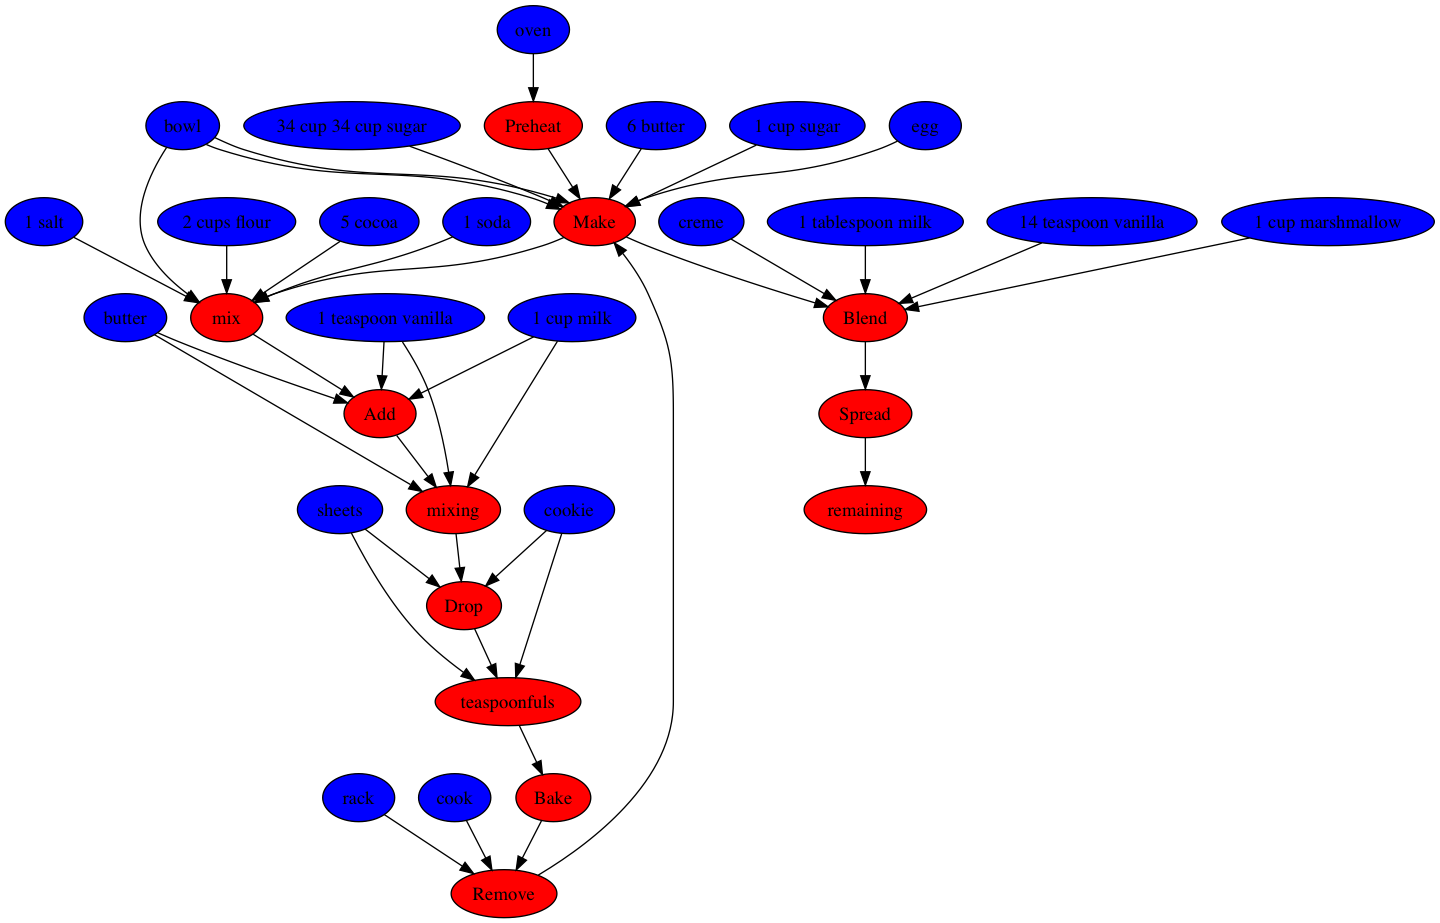
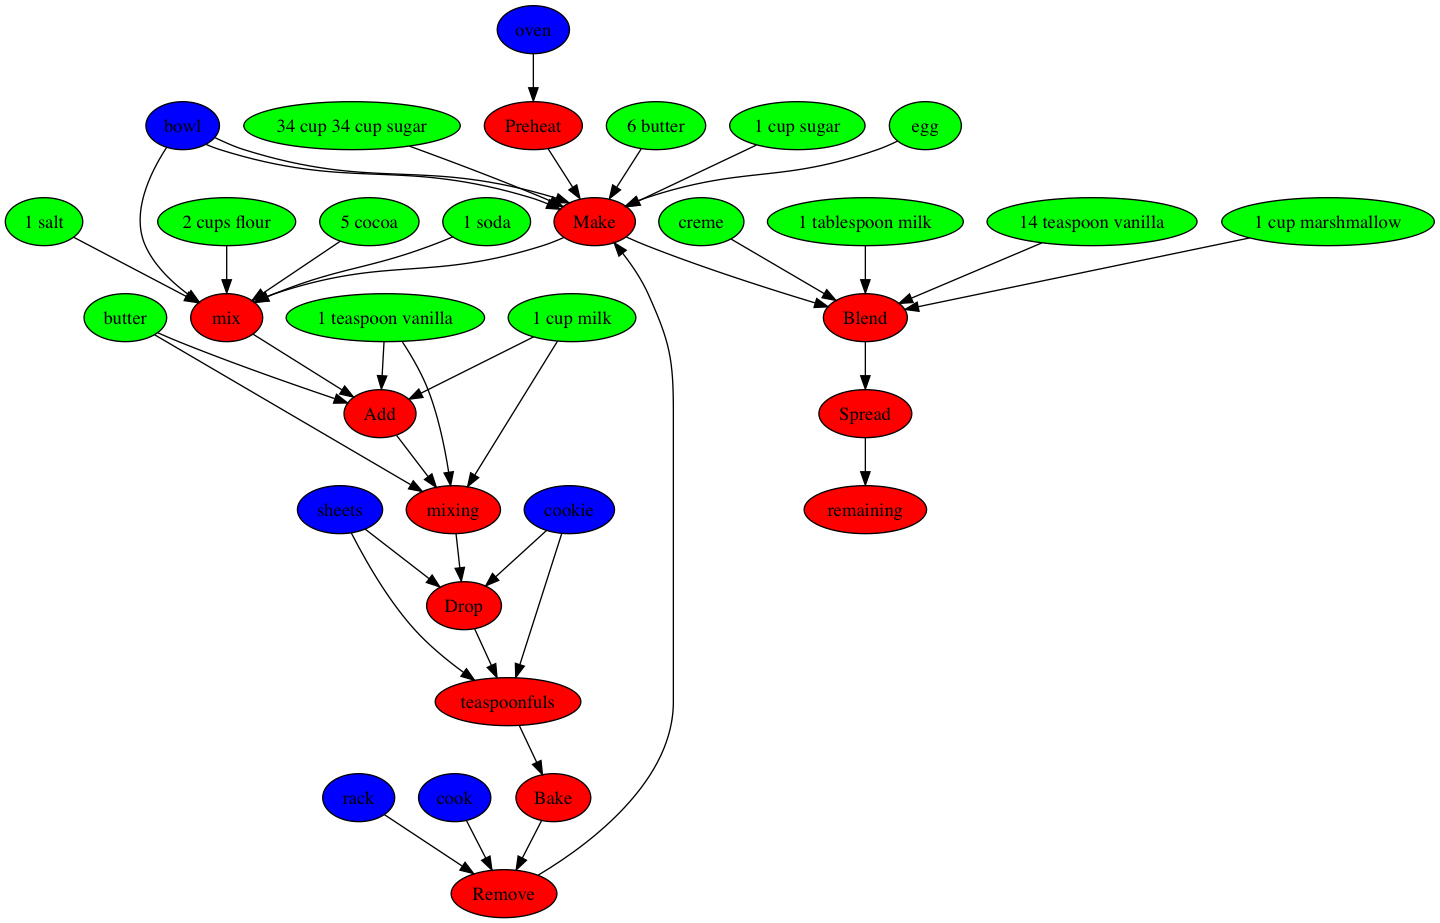
graph is generated

diff --git a/GraphGenerator.py b/GraphGenerator.py
@@ -13,7 +13,7 @@ class GraphGenerator:
         return pydot.Node(word, style="filled", fillcolor="red")
 
     def createIngredientNode(self, word):
-        return pydot.Node(word, style="filled", fillcolor="blue")
+        return pydot.Node(word, style="filled", fillcolor="green")
 
     def createToolNode(self, word):
         return pydot.Node(word, style="filled", fillcolor="#0000ff")
